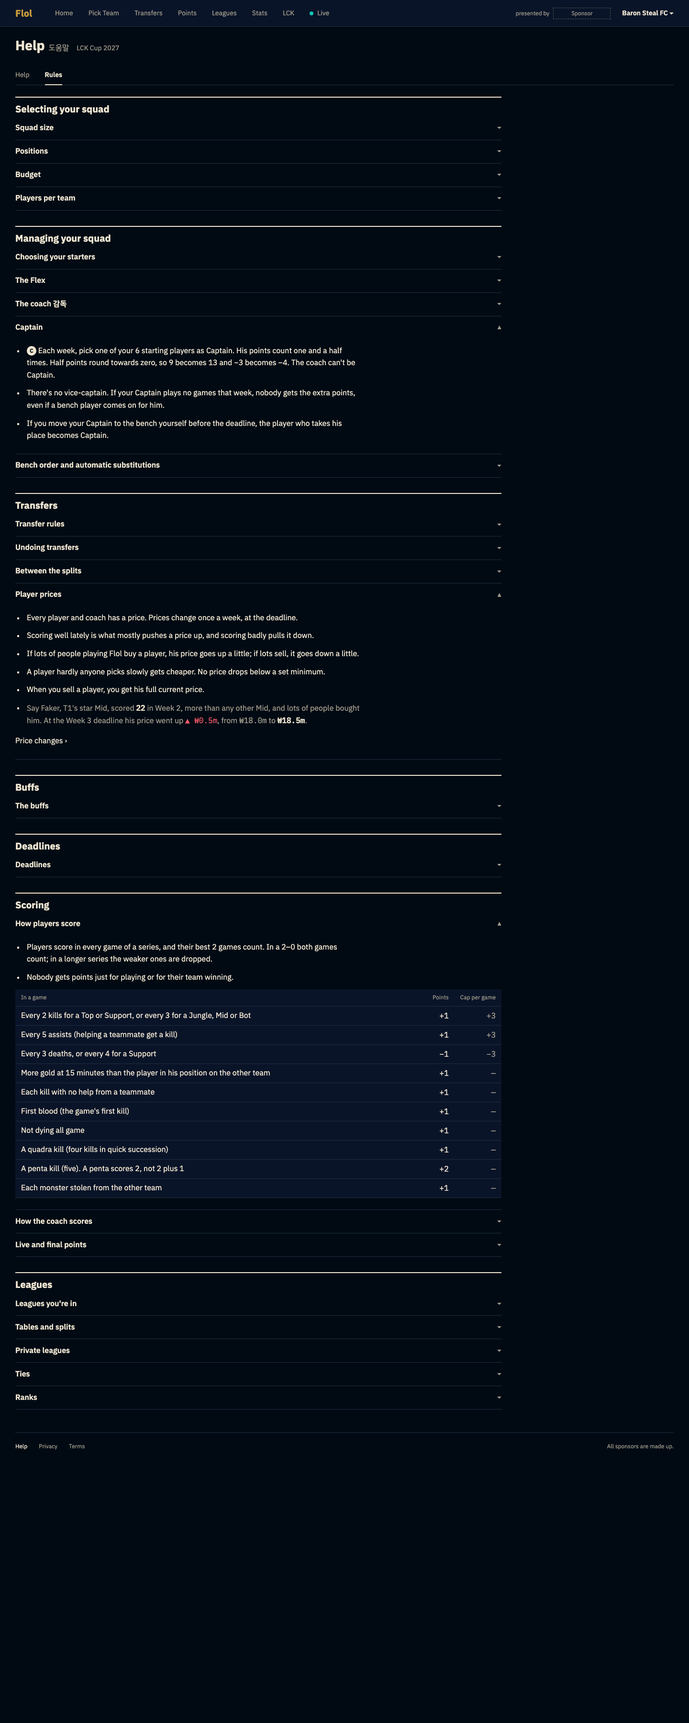
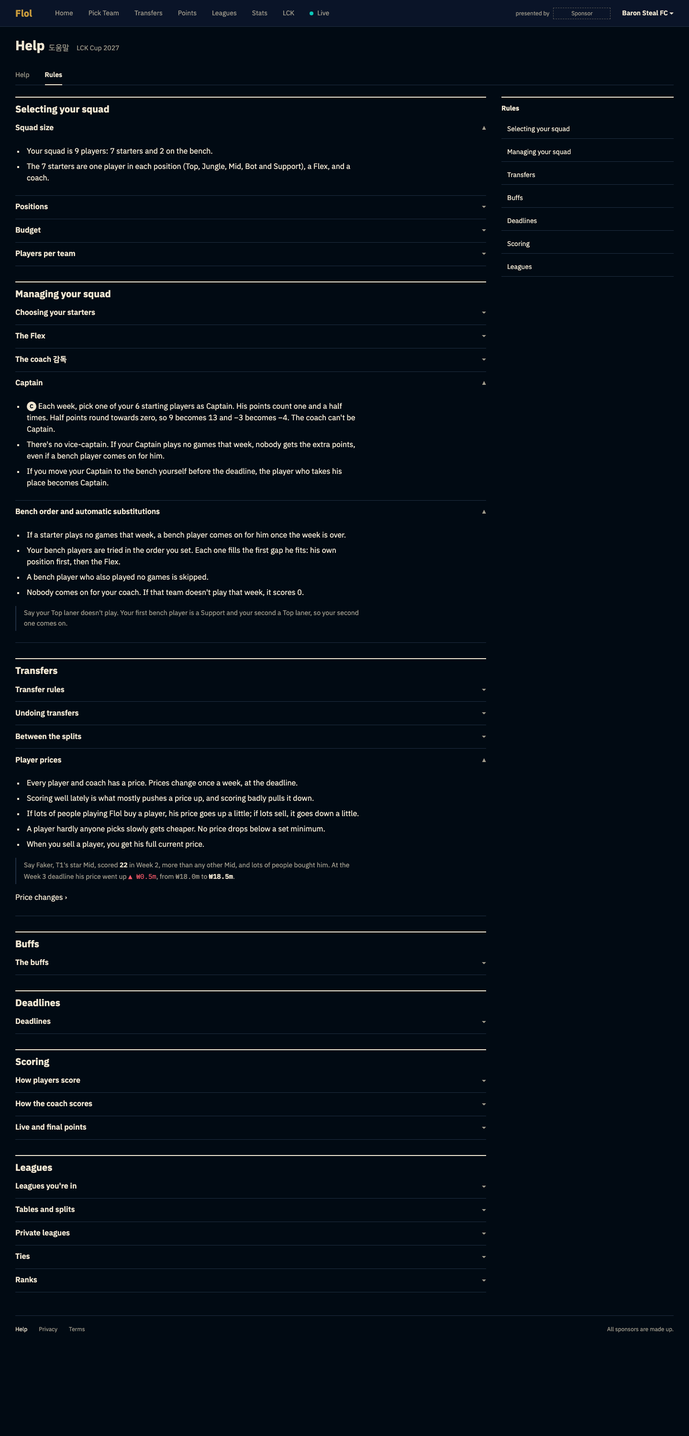
docs: Help approved; a guide a section at a time, and Rules as FPL's

diff --git a/docs/design/approved/help/help.html b/docs/design/approved/help/help.html
@@ -30,6 +30,37 @@ details > summary::-webkit-details-marker { display: none; }
 details > summary::after { content: "▾"; color: var(--mid); font-size: 14px; }
 details[open] > summary::after { content: "▴"; }
 details > .body { padding-bottom: 24px; }
+p.lead.big { font-size: 20px; line-height: 1.5; }
+details > summary { font-size: 20px; font-weight: 700; min-height: 56px; }
+section[data-tab="rules"] details > summary { font-size: 16px; font-weight: 600; min-height: 48px; }
+details[open] > .body { padding-top: 4px; }
+li { margin-top: 8px !important; line-height: 1.5; }
+.lead .num, li .num { font-weight: 400; }
+p.ex { margin-top: 16px; padding: 4px 0 4px 16px; border-left: 2px solid var(--line); color: var(--mid); font-size: 14px; max-width: 720px; }
+p.ex b { color: var(--text); font-weight: 600; }
+table.facts { max-width: 720px; }
+table.facts td:first-child { width: 160px; font-weight: 600; white-space: nowrap; }
+table.facts td.n { width: 112px; text-align: left; font-weight: 600; }
+table.facts td:last-child { color: var(--mid); }
+ul.check li { padding-left: 28px; }
+ul.check li::before { width: 14px; height: 14px; top: 5px; left: 0; background: none; border: 1px solid var(--mid); }
+.gloss tr.g th { padding-top: 24px; }
+.gloss tr.g:first-child th { padding-top: 8px; }
+.gloss td:first-child { width: 200px; }
+aside li a i { font-style: normal; font-family: "IBM Plex Mono", monospace; color: var(--mid); width: 24px; display: inline-block; }
+aside li a { min-height: 32px; padding: 6px 12px; }
+.rmenu { display: none; }
+body.rules aside { display: none; }
+body.rules aside.rmenu { display: block; }
+body.rules main { grid-column: auto; }
+section[data-tab="help"] details { display: none; border: 0; }
+section[data-tab="help"] details.cur { display: block; }
+section[data-tab="help"] details > summary { pointer-events: none; border: 0; font-size: 28px; min-height: 0; padding: 8px 0 16px; }
+section[data-tab="help"] details > summary::after { display: none; }
+nav.pager { display: flex; justify-content: space-between; margin-top: 48px; padding-top: 16px; border-top: 1px solid var(--line); max-width: 720px; }
+nav.pager a { font-weight: 600; }
+nav.pager a.next { margin-left: auto; }
+aside li a.on { color: var(--text); font-weight: 600; box-shadow: inset 2px 0 0 var(--text); }
 li.eg { color: var(--mid); }
 .dl td.ph-cell { color: var(--mid); }
 details > .body > ul:first-child, details > .body > table:first-child { margin-top: 0; }
@@ -43,8 +74,6 @@ aside ol { list-style: none; margin-top: 8px; }
 aside li { padding: 0; margin: 0; max-width: none; }
 aside li::before { display: none; }
 aside li a { display: flex; align-items: center; min-height: 40px; padding: 8px 12px; border-bottom: 1px solid var(--line); }
-body.rules aside { display: none; }
-body.rules main { grid-column: 1 / -1; }
 
 p.lead { max-width: 720px; margin-top: 16px; }
 p.lead:first-child { margin-top: 0; }
@@ -85,29 +114,34 @@ td.m { color: var(--mid); }
 <main>
   <section data-tab="help">
     <div class="intro">
-      <p class="lead">Flol is a free fantasy game where you pick real LCK players, from Korea's League of Legends league, and score points from how they play in their actual games.</p>
+      <p class="lead big">Flol is a free fantasy game where you pick real LCK players, from Korea's League of Legends league, and score points from how they play in their actual games.</p>
       <p class="lead">You start by building a squad, choosing your starters, picking a Captain each week, and then managing your team across the whole season. You play against everyone else on Flol, and you can make leagues to take on your friends.</p>
-      <p class="lead">There's a lot to take in at first. Start with the basics below, then use Rules for the full detail.</p>
     </div>
 
     <details id="in-60" open><summary>Flol in 60 seconds</summary><div class="body">
-      <p class="lead">You get <b class="num">₩100.0m</b> of game money to build a squad of 9 LCK players. They score points for what they do in real games, such as kills, assists and staying alive.</p>
-      <p class="lead">Flol runs one LCK week at a time. Each week, 7 of your squad score for you: one player in each of the five positions, a Flex, and a whole LCK team in your coach slot. The other 2 sit on your bench. You pick a Captain, whose points count one and a half times.</p>
-      <p class="lead">Transfers let you swap players in and out as the season goes on. Four buffs, played one at a time, give your score a boost.</p>
-      <p class="lead">The aim is to score as many points as you can over the season and climb the rankings, while taking on other people in leagues.</p>
+      <table class="facts">
+        <tr><td>Squad</td><td class="n">9</td><td>real LCK players</td></tr>
+        <tr><td>Starters</td><td class="n">7</td><td>one in each position, a Flex, and a whole LCK team as your coach</td></tr>
+        <tr><td>Bench</td><td class="n">2</td><td>come on if a starter doesn't play</td></tr>
+        <tr><td>Budget</td><td class="n">₩100.0m</td><td>game money, not real money</td></tr>
+        <tr><td>Captain</td><td class="n">×1.5</td><td>his points count one and a half times</td></tr>
+        <tr><td>Buffs</td><td class="n">4</td><td>one-off boosts, one a week</td></tr>
+      </table>
+      <p class="lead">Your players score for what they do in real games, such as kills, assists and staying alive. Transfers let you swap players as the season goes on. The aim is the most points over the season: climb the rankings and beat your friends in leagues.</p>
     </div></details>
 
-    <details id="weeks" open><summary>How a week works</summary><div class="body">
-      <p class="lead">A Flol week is one LCK week. It usually runs Wednesday to Sunday, and in the regular season each of the 10 LCK teams plays two series in it, at about 17:00 and 19:30 Korea time.</p>
-      <ul>
-        <li>A series is one match between two teams. Regular-season series are best of 3 games; playoff series are best of 5.</li>
-        <li>The deadline is 15 minutes before the week's first series. Any changes to your team must be saved by then. Home shows the next deadline in your own time.</li>
-        <li>Your points go up live while the games are played. They're confirmed about 3 hours after each series ends, and the league tables move then.</li>
-        <li>In the playoffs, a team might play no series in a week, or several.</li>
-      </ul>
+    <details id="weeks"><summary>How a week works</summary><div class="body">
+      <p class="lead">A Flol week is one LCK week. Week 1, Week 2 and so on.</p>
+      <table class="facts">
+        <tr><td>Days</td><td>Usually Wednesday to Sunday</td></tr>
+        <tr><td>Series</td><td>Each of the 10 teams plays two, at about 17:00 and 19:30 Korea time. A series is one match between two teams: best of 3 games, or best of 5 in the playoffs.</td></tr>
+        <tr><td>Deadline</td><td>15 minutes before the week's first series. Save your changes by then. Home shows it in your own time.</td></tr>
+        <tr><td>Points</td><td>Go up live during the games, and are final about 3 hours after each series</td></tr>
+      </table>
+      <p class="lead">In the playoffs, a team might play no series in a week, or several.</p>
     </div></details>
 
-    <details id="build-squad" open><summary>Step 1: Build your squad</summary><div class="body">
+    <details id="build-squad"><summary>Step 1: Build your squad</summary><div class="body">
       <p class="lead">Pick 9 players on Pick Team, spending no more than <b class="num">₩100.0m</b>. You need at least one player in each of the five positions, and no more than 2 from one LCK team. You'll be asked to sign up when you save.</p>
       <p class="lead">A good first squad usually has:</p>
       <ul>
@@ -119,7 +153,7 @@ td.m { color: var(--mid); }
       </ul>
     </div></details>
 
-    <details id="pick-starters" open><summary>Step 2: Pick your starters</summary><div class="body">
+    <details id="pick-starters"><summary>Step 2: Pick your starters</summary><div class="body">
       <p class="lead">Each week you choose 7 starters from your 9 on Pick Team. To swap two players, tap one, then tap one of the players that lights up. Press Save team when you're done; nothing changes until you do.</p>
       <p class="lead">Your 2 bench players sit in an order you choose. If a starter plays no games that week, your first bench player comes on for him if he fits, then your second.</p>
       <p class="lead">When picking your starters, ask:</p>
@@ -130,12 +164,13 @@ td.m { color: var(--mid); }
       </ul>
     </div></details>
 
-    <details id="choose-captain" open><summary>Step 3: Choose your Captain</summary><div class="body">
+    <details id="choose-captain"><summary>Step 3: Choose your Captain</summary><div class="body">
       <p class="lead">Your Captain is your biggest call each week, because his points count one and a half times. Tap a starter on Pick Team, press Make Captain, then save.</p>
       <p class="lead">Pick someone who is very likely to play and who usually scores well. There's no vice-captain, so if your Captain plays no games that week, nobody gets the extra points.</p>
+      <p class="ex">Say you captain Chovy and he scores <b class="num">9</b>. He gives you <b class="num">13</b>: 9 × 1.5 is 13.5, and the half is dropped.</p>
     </div></details>
 
-    <details id="points-scored" open><summary>Step 4: Understand how points are scored</summary><div class="body">
+    <details id="points-scored"><summary>Step 4: Understand how points are scored</summary><div class="body">
       <p class="lead">Players score in every game of a series, and their best 2 games count. The main ways to score are:</p>
       <ul>
         <li>Kills and assists</li>
@@ -144,9 +179,10 @@ td.m { color: var(--mid); }
         <li>Solo kills, first blood, multikills and stealing monsters</li>
       </ul>
       <p class="lead">Your coach slot scores for what the whole team does: the first tower, killing more dragons and barons than the other team, quick wins, and winning the series. A team can lose points for losing a series.</p>
+      <p class="lead"><a href="#scoring">Full scoring table ›</a></p>
     </div></details>
 
-    <details id="make-transfers" open><summary>Step 5: Make transfers to improve your squad</summary><div class="body">
+    <details id="make-transfers"><summary>Step 5: Make transfers to improve your squad</summary><div class="body">
       <p class="lead">Transfers let you change your squad during the season, on Transfers. Use them to:</p>
       <ul>
         <li>Replace a player who has lost his place to a stand-in.</li>
@@ -154,27 +190,28 @@ td.m { color: var(--mid); }
         <li>Move money between positions.</li>
       </ul>
       <p class="lead">You get 1 free transfer a week. Each extra one takes 6 points off that week's score, often called a hit. If you don't use your free transfer, it carries over, and you can save up to 3.</p>
+      <p class="ex">Say you have 1 free transfer and make 2. The second costs <b class="num">6</b>, so a week of <b class="num">48</b> points counts as <b class="num">42</b>.</p>
     </div></details>
 
-    <details id="using-buffs" open><summary>Step 6: Use buffs at the right time</summary><div class="body">
+    <details id="using-buffs"><summary>Step 6: Use buffs at the right time</summary><div class="body">
       <p class="lead">Buffs are boosts for big weeks. You get each one once a split, and can play only one in any week.</p>
-      <ul>
-        <li><b>Remake:</b> as many free transfers as you like, to rebuild your squad for good.</li>
-        <li><b>Limitless:</b> one week with no budget or team limit, then your old squad comes back.</li>
-        <li><b>Bench Boost:</b> your bench players score too.</li>
-        <li><b>Double Captain:</b> a second Captain, so two players score one and a half times.</li>
-      </ul>
+      <table class="buffs"><tr><th>Buff</th><th>What it does</th></tr>
+        <tr><td>Remake</td><td>As many free transfers as you like, to rebuild your squad for good</td></tr>
+        <tr><td>Limitless</td><td>One week with no budget or team limit, then your old squad comes back</td></tr>
+        <tr><td>Bench Boost</td><td>Your bench players score too</td></tr>
+        <tr><td>Double Captain</td><td>A second Captain, so two players score ×1.5</td></tr>
+      </table>
       <p class="lead">Play Remake and Limitless on Transfers; they're final once you confirm. Play Bench Boost and Double Captain on Pick Team; you can cancel them until the deadline.</p>
     </div></details>
 
-    <details id="join-leagues" open><summary>Step 7: Join leagues and take on your friends</summary><div class="body">
+    <details id="join-leagues"><summary>Step 7: Join leagues and take on your friends</summary><div class="body">
       <p class="lead">You're put in three leagues when you join: Overall, your country, and fans of your favourite LCK team.</p>
       <p class="lead">To play your friends, go to Leagues and press Create a league, then send them its code or link. If a friend sends you a code, press Join a league on Leagues and enter it.</p>
     </div></details>
 
-    <details id="weekly-checklist" open><summary>Your weekly checklist</summary><div class="body">
+    <details id="weekly-checklist"><summary>Your weekly checklist</summary><div class="body">
       <p class="lead">Before each deadline, check:</p>
-      <ul>
+      <ul class="check">
         <li>Have you picked your 7 starters?</li>
         <li>Have you picked your Captain?</li>
         <li>Is your bench in the right order?</li>
@@ -184,38 +221,8 @@ td.m { color: var(--mid); }
       </ul>
     </div></details>
 
-    <details id="glossary" open><summary>Flol glossary</summary><div class="body">
-      <table class="gloss">
-      <tr><td>Week</td><td>One LCK match week, usually Wednesday to Sunday. Most teams play two series in it, and your players score for what they do in them.</td></tr>
-      <tr><td>Deadline</td><td>15 minutes before a week's first series. Make your changes before it.</td></tr>
-      <tr><td>Series</td><td>A match between two LCK teams, best of 3 or best of 5 games.</td></tr>
-      <tr><td>Split</td><td>Half of the LCK season. Buffs reset each split.</td></tr>
-      <tr><td>Playoffs</td><td>The knockout end of a split, with unlimited transfers and up to 3 players from one team.</td></tr>
-      <tr><td>Squad</td><td>Your 9 players.</td></tr>
-      <tr><td>Starters</td><td>The 7 who score for you this week.</td></tr>
-      <tr><td>Bench</td><td>Your other 2, who come on if a starter doesn't play.</td></tr>
-      <tr><td>Positions</td><td>Top, Jungle, Mid, Bot and Support: the five places in a League of Legends team.</td></tr>
-      <tr><td>Flex</td><td>A starter from any position.</td></tr>
-      <tr><td>Coach 감독</td><td>Your starter that is a whole LCK team, shown by its head coach.</td></tr>
-      <tr><td>Captain</td><td>The player whose points count one and a half times.</td></tr>
-      <tr><td>Transfer</td><td>Selling one player and buying another.</td></tr>
-      <tr><td>Free transfer</td><td>A transfer that costs no points.</td></tr>
-      <tr><td>Hit</td><td>The 6 points taken off for each extra transfer.</td></tr>
-      <tr><td>Buff</td><td>A one-off boost: Remake, Limitless, Bench Boost or Double Captain.</td></tr>
-      <tr><td>Kill, assist, death</td><td>Killing an enemy, helping a teammate kill one, and being killed.</td></tr>
-      <tr><td>Solo kill</td><td>A kill with no help from a teammate.</td></tr>
-      <tr><td>First blood</td><td>The first kill of a game.</td></tr>
-      <tr><td>Multikill</td><td>A quadra (four kills in quick succession) or a penta (five).</td></tr>
-      <tr><td>Gold lead at 15</td><td>Having more gold at 15 minutes than the player in the same position on the other team.</td></tr>
-      <tr><td>Tower</td><td>A defensive building. A team destroys towers on the way to winning.</td></tr>
-      <tr><td>Dragon, baron, elder dragon</td><td>Big monsters the two teams fight over for boosts.</td></tr>
-      <tr><td>Steal</td><td>Killing a monster the other team was fighting.</td></tr>
-      <tr><td>Stand-in</td><td>A player who plays in place of a team's usual starter.</td></tr>
-      <tr><td>Price change</td><td>When a player's price goes up or down, once a week at the deadline.</td></tr>
-      <tr><td>Overall</td><td>The league with everyone in it.</td></tr>
-      <tr><td>Legend and Rise</td><td>The top and bottom halves of Overall in Split 2.</td></tr>
-      <tr><td>Rank</td><td>Your place in Overall, shown as a League of Legends rank from Iron to Challenger.</td></tr>
-    </table>
+    <details id="glossary"><summary>Flol glossary</summary><div class="body">
+      <table class="gloss"><tr class="g"><th colspan="2">The week</th></tr><tr><td>Week</td><td>One LCK match week, usually Wednesday to Sunday. Most teams play two series in it, and your players score for what they do in them.</td></tr><tr><td>Deadline</td><td>15 minutes before a week's first series. Make your changes before it.</td></tr><tr><td>Series</td><td>A match between two LCK teams, best of 3 or best of 5 games.</td></tr><tr><td>Split</td><td>Half of the LCK season. Buffs reset each split.</td></tr><tr><td>Playoffs</td><td>The knockout end of a split, with unlimited transfers and up to 3 players from one team.</td></tr><tr class="g"><th colspan="2">Your squad</th></tr><tr><td>Squad</td><td>Your 9 players.</td></tr><tr><td>Starters</td><td>The 7 who score for you this week.</td></tr><tr><td>Bench</td><td>Your other 2, who come on if a starter doesn't play.</td></tr><tr><td>Positions</td><td>Top, Jungle, Mid, Bot and Support: the five places in a League of Legends team.</td></tr><tr><td>Flex</td><td>A starter from any position.</td></tr><tr><td>Coach 감독</td><td>Your starter that is a whole LCK team, shown by its head coach.</td></tr><tr><td>Captain</td><td>The player whose points count one and a half times.</td></tr><tr><td>Transfer</td><td>Selling one player and buying another.</td></tr><tr><td>Free transfer</td><td>A transfer that costs no points.</td></tr><tr><td>Hit</td><td>The 6 points taken off for each extra transfer.</td></tr><tr><td>Buff</td><td>A one-off boost: Remake, Limitless, Bench Boost or Double Captain.</td></tr><tr class="g"><th colspan="2">In a game</th></tr><tr><td>Kill, assist, death</td><td>Killing an enemy, helping a teammate kill one, and being killed.</td></tr><tr><td>Solo kill</td><td>A kill with no help from a teammate.</td></tr><tr><td>First blood</td><td>The first kill of a game.</td></tr><tr><td>Multikill</td><td>A quadra (four kills in quick succession) or a penta (five).</td></tr><tr><td>Gold lead at 15</td><td>Having more gold at 15 minutes than the player in the same position on the other team.</td></tr><tr><td>Tower</td><td>A defensive building. A team destroys towers on the way to winning.</td></tr><tr><td>Dragon, baron, elder dragon</td><td>Big monsters the two teams fight over for boosts.</td></tr><tr><td>Steal</td><td>Killing a monster the other team was fighting.</td></tr><tr><td>Stand-in</td><td>A player who plays in place of a team's usual starter.</td></tr><tr class="g"><th colspan="2">Prices and leagues</th></tr><tr><td>Price change</td><td>When a player's price goes up or down, once a week at the deadline.</td></tr><tr><td>Overall</td><td>The league with everyone in it.</td></tr><tr><td>Legend and Rise</td><td>The top and bottom halves of Overall in Split 2.</td></tr><tr><td>Rank</td><td>Your place in Overall, shown as a League of Legends rank from Iron to Challenger.</td></tr></table>
     </div></details>
   </section>
 
@@ -257,18 +264,21 @@ td.m { color: var(--mid); }
       <li>If a starter plays no games that week, a bench player comes on for him once the week is over.</li>
       <li>Your bench players are tried in the order you set. Each one fills the first gap he fits: his own position first, then the Flex.</li>
       <li>A bench player who also played no games is skipped.</li>
-      <li class="eg">Say your Top laner doesn't play. Your first bench player is a Support and your second a Top laner, so your second one comes on.</li>
       <li>Nobody comes on for your coach. If that team doesn't play that week, it scores 0.</li>
-    </ul></div></details>
+    </ul>
+      <p class="ex">Say your Top laner doesn't play. Your first bench player is a Support and your second a Top laner, so your second one comes on.</p></div></details>
 
     <h2>Transfers</h2>
-    <details id="transfers"><summary>Transfer rules</summary><div class="body"><ul>
-      <li>Before a split's first deadline, transfers are free and unlimited. In its second week you have 2 free transfers, then 1 a week.</li>
-      <li>If you don't use a free transfer, it carries over. You can save up to 3.</li>
-      <li>Each transfer beyond your free ones takes 6 points off that week's score.</li>
-      <li>You can swap a player for one in another position, as long as you still have one in every position. A coach can only be swapped for another coach.</li>
-      <li>In the playoffs, transfers are unlimited and never cost points.</li>
-    </ul></div></details>
+    <details id="transfers"><summary>Transfer rules</summary><div class="body">
+      <table class="facts">
+        <tr><td>Before a split starts</td><td>Free and unlimited</td></tr>
+        <tr><td>Its second week</td><td>2 free transfers</td></tr>
+        <tr><td>Every week after</td><td>1 free transfer; unused ones carry over, up to 3</td></tr>
+        <tr><td>Each extra transfer</td><td>−6 points off that week's score</td></tr>
+        <tr><td>Playoffs</td><td>Unlimited, never cost points</td></tr>
+      </table>
+      <ul><li>You can swap a player for one in another position, as long as you still have one in every position. A coach can only be swapped for another coach.</li></ul>
+    </div></details>
     <details id="undo"><summary>Undoing transfers</summary><div class="body"><ul>
       <li>Each time you confirm transfers, you can undo that whole batch until the deadline, latest first. Your old players come back at their old prices, and any free transfers and points it used are given back.</li>
       <li>Selling a player and buying him back before the deadline costs nothing.</li>
@@ -285,8 +295,8 @@ td.m { color: var(--mid); }
       <li>If lots of people playing Flol buy a player, his price goes up a little; if lots sell, it goes down a little.</li>
       <li>A player hardly anyone picks slowly gets cheaper. No price drops below a set minimum.</li>
       <li>When you sell a player, you get his full current price.</li>
-      <li class="eg">Say Faker, T1's star Mid, scored <b class="num">22</b> in Week 2, more than any other Mid, and lots of people bought him. At the Week 3 deadline his price went up <span class="up num">▲ ₩0.5m</span>, from <span class="num">₩18.0m</span> to <b class="num">₩18.5m</b>.</li>
-    </ul><p class="eg"><a>Price changes ›</a></p></div></details>
+      </ul>
+      <p class="ex">Say Faker, T1's star Mid, scored <b class="num">22</b> in Week 2, more than any other Mid, and lots of people bought him. At the Week 3 deadline his price went up <span class="up num">▲ ₩0.5m</span>, from <span class="num">₩18.0m</span> to <b class="num">₩18.5m</b>.</p><p class="eg"><a>Price changes ›</a></p></div></details>
 
     <h2>Buffs</h2>
     <details id="buffs"><summary>The buffs</summary><div class="body">
@@ -395,17 +405,35 @@ td.m { color: var(--mid); }
     </div></details>
   </section>
 </main>
-<aside><h4>Help menu</h4><ol><li><a href="#in-60">Flol in 60 seconds</a></li><li><a href="#weeks">How a week works</a></li><li><a href="#build-squad">Step 1: Build your squad</a></li><li><a href="#pick-starters">Step 2: Pick your starters</a></li><li><a href="#choose-captain">Step 3: Choose your Captain</a></li><li><a href="#points-scored">Step 4: Understand how points are scored</a></li><li><a href="#make-transfers">Step 5: Make transfers to improve your squad</a></li><li><a href="#using-buffs">Step 6: Use buffs at the right time</a></li><li><a href="#join-leagues">Step 7: Join leagues and take on your friends</a></li><li><a href="#weekly-checklist">Your weekly checklist</a></li><li><a href="#glossary">Flol glossary</a></li></ol></aside>
+<aside><h4>Help menu</h4><ol><li><a href="#in-60">Flol in 60 seconds</a></li><li><a href="#weeks">How a week works</a></li><li><a href="#build-squad"><i>1</i>Build your squad</a></li><li><a href="#pick-starters"><i>2</i>Pick your starters</a></li><li><a href="#choose-captain"><i>3</i>Choose your Captain</a></li><li><a href="#points-scored"><i>4</i>Understand how points are scored</a></li><li><a href="#make-transfers"><i>5</i>Make transfers to improve your squad</a></li><li><a href="#using-buffs"><i>6</i>Use buffs at the right time</a></li><li><a href="#join-leagues"><i>7</i>Join leagues and take on your friends</a></li><li><a href="#weekly-checklist">Your weekly checklist</a></li><li><a href="#glossary">Flol glossary</a></li></ol></aside>
+<aside class="rmenu"><h4>Rules</h4><ol><li><a href="#squad-size">Selecting your squad</a></li><li><a href="#starters">Managing your squad</a></li><li><a href="#transfers">Transfers</a></li><li><a href="#buffs">Buffs</a></li><li><a href="#deadlines">Deadlines</a></li><li><a href="#scoring">Scoring</a></li><li><a href="#leagues">Leagues</a></li></ol></aside>
 <div class="foot"><a class="on">Help</a><a>Privacy</a><a>Terms</a><span class="sp"></span><span>All sponsors are made up.</span></div>
 </div>
 <script>
-// Two tabs, Help and Rules. A hash names a tab or a part: /help#prices opens Rules with Prices open and in view.
+// Two tabs. Help shows one guide section at a time, picked from the Help menu, with Back and Next.
+// Rules is groups of items that open and close. /help#prices opens Rules with Prices open and in view.
+const pages = [...document.querySelectorAll('section[data-tab="help"] details')];
+const title = d => d.querySelector("summary").textContent;
+pages.forEach((d, i) => {
+  d.open = true;
+  const nav = document.createElement("nav"); nav.className = "pager";
+  if (i) nav.innerHTML += `<a class="back" href="#${pages[i-1].id}">‹ ${title(pages[i-1])}</a>`;
+  if (i < pages.length - 1) nav.innerHTML += `<a class="next" href="#${pages[i+1].id}">${title(pages[i+1])} ›</a>`;
+  d.querySelector(".body").append(nav);
+});
 const show = h => {
   let el = h && document.getElementById(h);
   let tab = h === "rules" || (el && el.closest('section[data-tab="rules"]')) ? "rules" : "help";
   document.querySelectorAll("section").forEach(x => x.classList.toggle("on", x.dataset.tab === tab));
   document.querySelectorAll(".tabs a").forEach(a => a.classList.toggle("on", a.getAttribute("href") === "#" + tab));
   document.body.classList.toggle("rules", tab === "rules");
+  if (tab === "help") {
+    const cur = pages.includes(el) ? el : pages[0];
+    pages.forEach(d => d.classList.toggle("cur", d === cur));
+    document.querySelector(".intro").hidden = cur !== pages[0];
+    document.querySelectorAll("aside:not(.rmenu) a").forEach(a => a.classList.toggle("on", a.getAttribute("href") === "#" + cur.id));
+    scrollTo(0, 0); return;
+  }
   if (el && el.tagName === "DETAILS") { el.open = true; requestAnimationFrame(() => scrollTo(0, el.getBoundingClientRect().top + scrollY - 24)); } else scrollTo(0, 0);
 };
 addEventListener("hashchange", () => show(location.hash.slice(1)));

diff --git a/docs/design/approved/help/README.md b/docs/design/approved/help/README.md
@@ -1,0 +1,29 @@
+# Help
+
+The rules and a beginner's guide, as FPL's Help (spec/12, Help). Reached from the Help link in every page's foot, beside Privacy and Terms, and from the team-name ▾ menu. Price changes' `How prices move ›` opens `/help#prices`. Not in the top bar.
+
+**Approved:** Craig, 17 Nov 2026: "Approved". On the way there he asked for tabs, more readable text, writing "like a real person", a read by three new players (a League player who doesn't know fantasy games, an FPL player who doesn't know League, and a total beginner), an introduction like FPL's, a line on what a week is ("Wed to Sunday"), and then FPL's own layout: "go look at fpl", "we need more sections". After the approval he asked for the guide to be "broken up" and said "its just sucha long page", so each section became its own page with the text kept. The page follows the Captain rename of [#298](https://github.com/cBallGitWork/lck-fantasy/pull/298) (Captain, no vice-captain, Double Captain). The source is `help.html`.
+
+| File | Shows |
+|---|---|
+| `1440.png`, `help.html` | Help tab, first page: the intro and Flol in 60 seconds |
+| `1440-help-step4.png`, `help.html#points-scored` | Help tab, one step on its own page with Back and Next |
+| `1440-rules.png`, `help.html#rules` | Rules tab, first item open |
+| `1440-rules-open.png` | Rules tab with Captain, Player prices and How players score open |
+
+## Borrowed
+
+- **FPL's Help** ([notes](../../../research/fpl-help-pages.md)): Help and Rules tabs; the guide's intro, "in 60 seconds", seven steps that say where to click and what to look for, a weekly checklist and a glossary; a Help menu beside the guide; Rules as groups of items that open and close; a deadlines item.
+
+## Controls
+
+- **Tabs**: Help | Rules. Help opens first.
+- **Help menu**: the guide shows one section at a time; each line opens its section, and Back and Next under it step through them in order. The intro sits above Flol in 60 seconds only.
+- **A rule**: tap its title to open or close it. In Rules only Squad size starts open.
+- **A link to a rule** (`/help#prices`): opens Rules with that item open and in view.
+- **Price changes ›**: opens Price changes.
+
+## Placeholders
+
+- **Deadlines**: each week's date and time come from the competition's schedule data (spec/10); greyed until the schedule is loaded.
+- **The tables** (scoring lines, buffs, tier cut-offs) are read from the same data the game uses (spec/05, spec/06, spec/08). The build is [#314](https://github.com/cBallGitWork/lck-fantasy/issues/314).

diff --git a/docs/design/plate.md b/docs/design/plate.md
@@ -110,6 +110,14 @@ Each part is drawn one way on every screen.
 - **Marks:** C and V are round, and so are the live dot, your-player dot (8px, after the name)
   and a radio button. A crest keeps its team's shape (`approved/crests/`). Everything else is square, radius 0, save a Rift tile's card (Craig, 16 Nov 2026).
 - **Your players** are marked by that dot, on every screen.
+- **Section that opens and closes** (Help, as FPL's): a 48px row, its title 16/600 at the left and
+  ▾ or ▴ in `--mid` at the right, a 1px `--line` under it; open, its text sits under the title with
+  24px below. A group of them opens with a 20/700 heading over a 2px `--text` rule.
+- **Guide page** (Help's guide): one section at a time, its title 28/700, chosen from the side menu
+  (the current line 600 in `--text` with a 2px `--text` edge at its left); under it a 1px `--line`
+  and Back `‹ title` at the left, Next `title ›` at the right, both 600.
+- **Worked example** ("Say…"): its own paragraph, 14px `--mid`, 16px in from a 2px `--line` rule at
+  its left; its numbers in `--text`.
 - **Modal** (a card, a sheet): a dimmed page behind, `✕` top right, Esc closes, focus stays
   inside. A card is 1056 wide; a sheet 544.
 - **Form:** label above its field, 14px; the field 40px tall, 1px `--line`, `--text` when focused;
@@ -135,6 +143,18 @@ Every screen part is drawn for each state it can be in.
   moves.
 
 ## Words
+
+Prose (Help, and any page that explains in sentences) is written as a friend who plays would explain
+it (Craig, 17 Nov 2026, the Help round):
+
+- Full sentences to "you", with contractions; one rule per sentence, condition first.
+- Plain words, not labels: "your first bench player", never "bench 1".
+- A game term gets a few words of explanation the first time it appears, in the same sentence.
+- Where a rule could trip someone up, one worked example with real names and numbers, starting "Say".
+- Cut anything a reader doesn't need to play.
+
+Everywhere:
+
 
 - UK English, sentence case everywhere: `Live`, never `LIVE`.
 - The shortest label that's still clear: `Pts`, `Owned`, `Price`.

diff --git a/spec/12-pages.md b/spec/12-pages.md
@@ -106,8 +106,12 @@ FPL's, or FPL's logic ([SPEC.md](../SPEC.md), the base assumption). Open questio
   - Home embeds the stream while a series is live ([Home](#home)); it never redirects.
 - **Following**: the feed, follows, requests and cheers and jeers received
   ([spec/14](14-following.md)).
-- **Help**, with a Ranks section holding the tier cut-offs ([spec/08](08-leagues.md#overall-tiers)),
-  and **Settings** ([below](#settings)).
+- **Help**, as FPL's Help (Craig, 17 Nov 2026; its picture is `docs/design/approved/help/`): two
+  tabs. **Help** is a beginner's guide (Flol in 60 seconds, how a week works, seven steps saying
+  where to click, a weekly checklist, a glossary) with a Help menu beside it. **Rules** is every
+  rule, in groups of items that open and close, the Ranks item holding the tier cut-offs
+  ([spec/08](08-leagues.md#overall-tiers)). A link such as `/help#prices` opens its item.
+- **Settings** ([below](#settings)).
 
 ## Home
 
